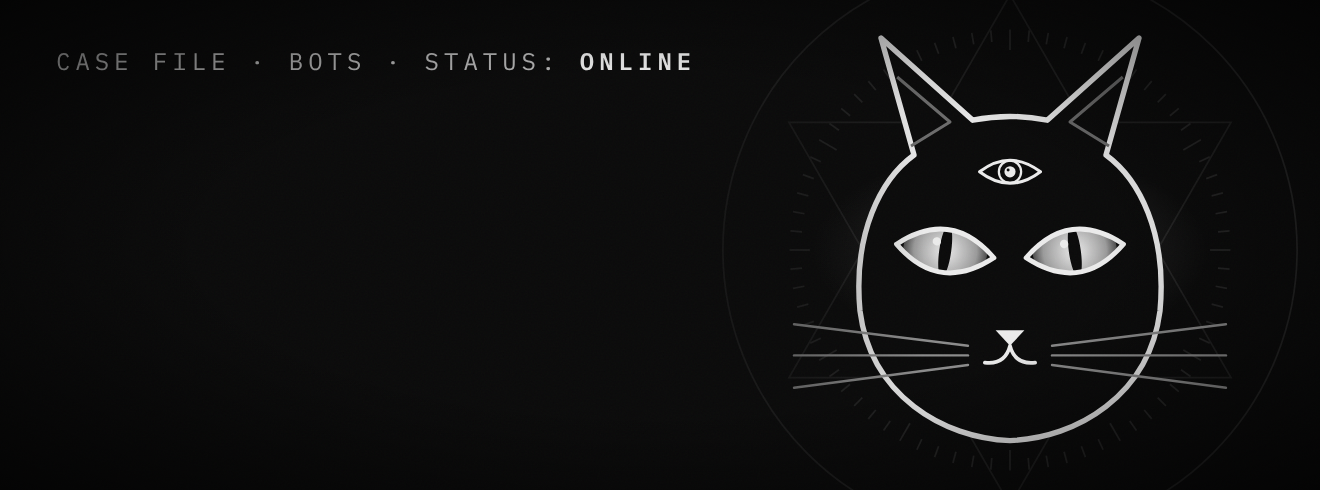
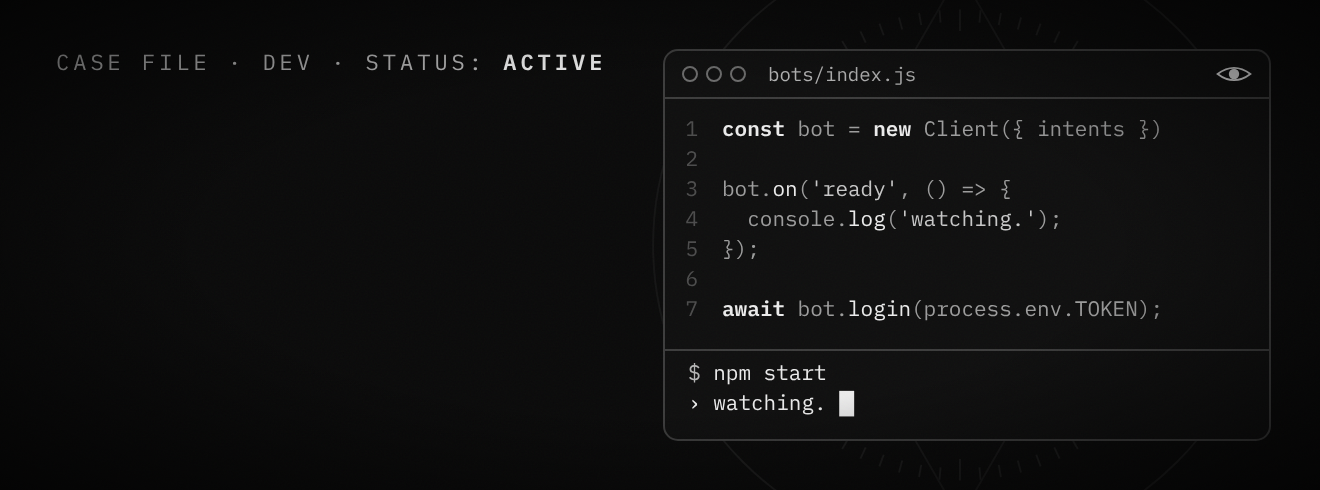
Swap widget cat for a code-window developer card

diff --git a/tools/make-banners.js b/tools/make-banners.js
@@ -67,34 +67,42 @@ ${body}
 </svg>`;
 }
 
-// a cat's head, front-on, with the site's lens eyes and slit pupils; centred on (0,0), ~520 wide
-function cat(id) {
-  const eye = (x, tilt) => `<g transform="translate(${x} -40) rotate(${tilt})">
-      <clipPath id="${id}-lens${x}"><path d="M-82 0 Q0 -72 82 0 Q0 72 -82 0Z"/></clipPath>
-      <circle r="70" fill="url(#${id}-iris)" clip-path="url(#${id}-lens${x})"/>
-      <ellipse rx="10" ry="44" fill="${BG}" clip-path="url(#${id}-lens${x})"/>
-      <circle cx="-16" cy="-14" r="7" fill="${FG}"/>
-      <path d="M-82 0 Q0 -72 82 0 Q0 72 -82 0Z" fill="none" stroke="${FG}" stroke-width="8" stroke-linejoin="round"/>
-    </g>`;
-  let s = `<g class="cat"><defs>
-      <radialGradient id="${id}-iris"><stop offset="0" stop-color="${FG}"/><stop offset=".75" stop-color="#9a9a9a"/><stop offset="1" stop-color="#4a4a4a"/></radialGradient>
-      <radialGradient id="${id}-shine"><stop offset="0" stop-color="#fff" stop-opacity=".16"/><stop offset="1" stop-color="#fff" stop-opacity="0"/></radialGradient>
-    </defs>`;
-  s += `<ellipse cx="0" cy="-40" rx="330" ry="170" fill="url(#${id}-shine)"/>`;
-  // head + ears in one outline
-  s += `<path d="M-250 60 C-262 -70 -215 -160 -160 -200 L-215 -395 L-62 -258 C-22 -266 22 -266 62 -258 L215 -395 L160 -200 C215 -160 262 -70 250 60 C232 200 112 272 0 276 C-112 272 -232 200 -250 60Z" fill="${BG}" stroke="${FG}" stroke-width="9" stroke-linejoin="round"/>`;
-  // inner ears
-  s += `<g fill="none" stroke="#6a6a6a" stroke-width="5" stroke-linejoin="round"><path d="M-188 -330 L-100 -255 L-165 -215"/><path d="M188 -330 L100 -255 L165 -215"/></g>`;
-  s += eye(-108, 8) + eye(108, -8);
-  // the third eye, same lens as the site's
-  s += `<g transform="translate(0 -172) scale(.62)"><path d="M-82 0 Q0 -62 82 0 Q0 62 -82 0Z" fill="${BG}" stroke="${FG}" stroke-width="8" stroke-linejoin="round"/>
-      <circle r="30" fill="none" stroke="${FG}" stroke-width="6"/><circle r="15" fill="${FG}"/><circle cx="-5" cy="-5" r="4" fill="${BG}"/></g>`;
-  // nose, mouth, whiskers
-  s += `<path d="M-24 92 L24 92 L0 118Z" fill="${FG}"/>`;
-  s += `<path d="M0 118 q-8 32 -42 28 M0 118 q8 32 42 28" fill="none" stroke="${FG}" stroke-width="6" stroke-linecap="round"/>`;
-  s += `<g stroke="#8a8a8a" stroke-width="4" stroke-linecap="round">`;
-  for (const side of [-1, 1]) for (const [y1, y2] of [[118, 82], [134, 134], [150, 188]]) s += `<line x1="${side * 70}" y1="${y1}" x2="${side * 360}" y2="${y2}"/>`;
-  return s + `</g></g>`;
+// developer card: an editor window with a small, original bot snippet + a terminal strip
+function devCard() {
+  const X = 664, Y = 50, W = 606, H = 390, lh = 30;
+  const code = [
+    [['k', 'const'], ['t', ' bot = '], ['k', 'new'], ['t', ' Client({ intents })']],
+    [],
+    [['t', 'bot.'], ['f', 'on'], ['t', '('], ['s', "'ready'"], ['t', ', () => {']],
+    [['t', '  console.'], ['f', 'log'], ['t', '('], ['s', "'watching.'"], ['t', ');']],
+    [['t', '});']],
+    [],
+    [['k', 'await'], ['t', ' bot.'], ['f', 'login'], ['t', '(process.env.TOKEN);']],
+  ];
+  const col = { k: [FG, 600], t: ['#9c9c9c', 400], f: [FG, 400], s: ['#c8c8c8', 400] };
+  let rows = '';
+  code.forEach((line, i) => {
+    const y = Y + 86 + i * lh;
+    rows += `<text x="${X + 34}" y="${y}" fill="#4a4a4a" text-anchor="end">${i + 1}</text>`;
+    rows += `<text x="${X + 58}" y="${y}">` + line.map(([c, t]) => `<tspan fill="${col[c][0]}" font-weight="${col[c][1]}">${t.replace(/&/g, '&amp;').replace(/</g, '&lt;').replace(/^ +/, (m) => '\u00a0'.repeat(m.length))}</tspan>`).join('') + `</text>`;
+  });
+  const ty = Y + H - 60;
+  return `
+    <defs><linearGradient id="fade" x1="0" x2="1"><stop offset="0" stop-color="${BG}"/><stop offset=".42" stop-color="${BG}" stop-opacity=".9"/><stop offset=".55" stop-color="${BG}" stop-opacity="0"/></linearGradient></defs>
+    <g transform="translate(960 245) scale(.62)" opacity=".35">${sigil('w', { eye: false, ringText: false })}</g>
+    <rect width="1320" height="490" fill="url(#fade)"/>
+    <g font-family="IBM Plex Mono" font-size="21" style="white-space: pre">
+      <rect x="${X}" y="${Y}" width="${W}" height="${H}" rx="14" fill="#0b0b0b" stroke="${LINE}" stroke-width="2"/>
+      <path d="M${X} ${Y + 48} h${W}" stroke="${LINE}" stroke-width="2"/>
+      <g fill="none" stroke="#6a6a6a" stroke-width="2"><circle cx="${X + 26}" cy="${Y + 24}" r="7"/><circle cx="${X + 50}" cy="${Y + 24}" r="7"/><circle cx="${X + 74}" cy="${Y + 24}" r="7"/></g>
+      <text x="${X + 104}" y="${Y + 31}" fill="${MUTED}" font-size="19">bots/index.js</text>
+      <g transform="translate(${X + W - 36} ${Y + 24}) scale(.2)"><path d="M-82 0 Q0 -62 82 0 Q0 62 -82 0Z" fill="none" stroke="${FG}" stroke-width="9"/><circle r="26" fill="${FG}"/></g>
+      ${rows}
+      <path d="M${X} ${ty - 30} h${W}" stroke="${LINE}" stroke-width="2"/>
+      <text x="${X + 24}" y="${ty}" fill="${MUTED}">$ <tspan fill="${FG}">npm start</tspan></text>
+      <text x="${X + 24}" y="${ty + lh}" fill="${FG}">› watching.<tspan fill="${FG}" font-weight="600"> █</tspan></text>
+    </g>
+    <text x="56" y="70" font-family="IBM Plex Mono" font-size="22" letter-spacing="4" fill="${MUTED}">CASE FILE · DEV · STATUS: <tspan fill="${FG}" font-weight="600">ACTIVE</tspan></text>`;
 }
 
 // a bot avatar: ring + ticks + one blackletter initial
@@ -116,12 +124,9 @@ const FORMATS = [
   { name: 'avatar', W: 1024, H: 1024, avatar: true },
   // discord profile "board" widget art. Discord writes the title + description over the bottom-left,
   // so that corner stays dark; the watching cat sits on the right.
-  { name: 'discord-widget', W: 1320, H: 490, custom: () => `
-      <defs><linearGradient id="fade" x1="0" x2="1"><stop offset="0" stop-color="${BG}"/><stop offset=".45" stop-color="${BG}" stop-opacity=".85"/><stop offset=".7" stop-color="${BG}" stop-opacity="0"/></linearGradient></defs>
-      <g transform="translate(1010 250) scale(.58)" opacity=".5">${sigil('w', { eye: false, ringText: false })}</g>
-      <g transform="translate(1010 275) scale(.6)">${cat('c')}</g>
-      <rect width="1320" height="490" fill="url(#fade)"/>
-      <text x="56" y="70" font-family="IBM Plex Mono" font-size="24" letter-spacing="5" fill="${MUTED}">CASE FILE · BOTS · STATUS: <tspan fill="${FG}" font-weight="600">ONLINE</tspan></text>` },
+  // discord profile "board" widget art. Discord writes the title + description over the left,
+  // so that side stays dark; a code window sits on the right.
+  { name: 'discord-widget', W: 1320, H: 490, custom: () => devCard() },
   { name: 'bot-jinzo', W: 512, H: 512, custom: () => botIcon('J') },
   { name: 'bot-cosmou', W: 512, H: 512, custom: () => botIcon('C') },
   { name: 'icon-site', W: 512, H: 512, custom: () => `<rect width="512" height="512" fill="url(#glow)"/><g transform="translate(256 256) scale(.49)">${sigil('s', { tri: false, ringText: false })}</g>` },
